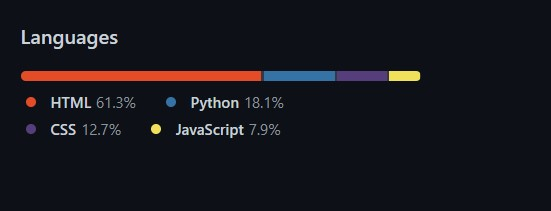
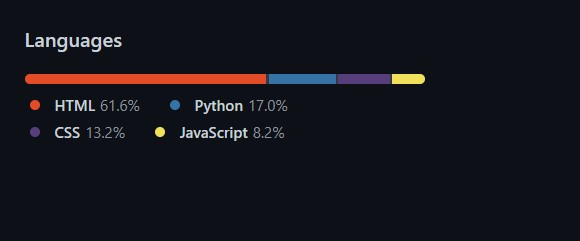
added pics

Changed region(s): [[0.0309, 0.2844, 0.7713, 0.654], [0.0309, 0.1422, 0.216, 0.2275]]

diff --git a/templates/about_project.html b/templates/about_project.html
@@ -21,7 +21,7 @@ About this project
         homes and homestays. Homify also gives flexibility to property owners to list their properties for rent. Homify
         is licensed under the MIT license. This project is developed using Python, JavaScript, HTML, CSS, Flask, and
         Bootstrap framework (version 4.5 and 5) for grids and containers. As per Github's estimation,
-        Homify uses 61.3% of HTML, 18.1% of Python (1729 lines of code), 13.1% of CSS, and 8.1% of JavaScript.
+        Homify uses 61.6% of HTML, 17.0% of Python (1729 lines of code), 13.2% of CSS, and 8.2% of JavaScript.
         <div class="snip">
             <img src="static/images/about_me/githubEst.jpg" alt="">
         </div>
